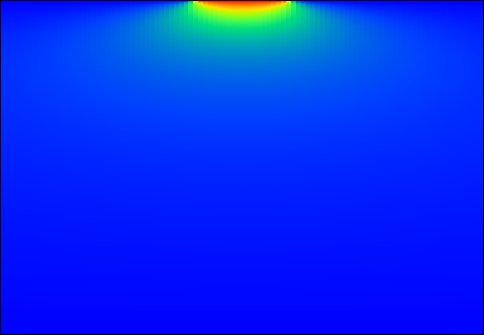
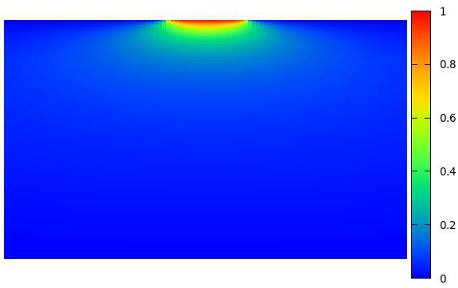
Adding scale on some plots

diff --git a/report/report.tex b/report/report.tex
@@ -11,6 +11,7 @@
 \usepackage{tocloft}
 \usepackage{url}
 \usepackage{tikz}
+\usepackage{pgfplots}
 
 
 
@@ -338,7 +339,7 @@
 
 		\begin{figure}[H]
 			\center
-			\includegraphics[scale=0.5]{images/boundary_conditions/detector/plot_analytic.png}
+			\includegraphics[height=7.5cm,width=11cm]{images/boundary_conditions/detector/plot_analytic.png}
 			\caption{Two dimension plot of analytical solution of the weighting field given by
 				Equation~\ref{exp_analytic}}
 			\label{fig:plot_analytic}
@@ -562,23 +563,23 @@
 		\label{fig:high_refinement}
 	\end{figure}
 
-\begin{figure}[H]
-\begin{center}
-	\begin{tikzpicture}[scale=0.025]
-	    \foreach \i in {\xMin,...,\xMax} {
-	        \draw [very thin,gray] (\i,\yMin) -- (\i,\yMax)  node [below] at (\i,\yMin) {};
-	    }
-	    \foreach \i in {\yMin,...,\yMax} {
-	        \draw [very thin,gray] (\xMin,\i) -- (\xMax,\i) node [left] at (\xMin,\i) {};
-	    }
+	\begin{figure}[H]
+		\begin{center}
+			\begin{tikzpicture}[scale=0.025]
+		    	\foreach \i in {\xMin,...,\xMax} {
+		        	\draw [very thin,gray] (\i,\yMin) -- (\i,\yMax)  node [below] at (\i,\yMin) {};
+		    	}
+		    	\foreach \i in {\yMin,...,\yMax} {
+		        	\draw [very thin,gray] (\xMin,\i) -- (\xMax,\i) node [left] at (\xMin,\i) {};
+		    	}
 
-	\end{tikzpicture}
-\end{center}
-\caption{Grid used by \textit{Weightfield} when computing the potential for
-the following geometry: width 300microm, strip length
-75microm, pitch 300microm, strip number 1. The grid is composed of 112500 cells.}
-\label{fig:wf_mesh}
-\end{figure}
+			\end{tikzpicture}
+		\end{center}
+		\caption{Grid used by \textit{Weightfield} when computing the potential for
+			the following geometry: width 300microm, strip length
+			75microm, pitch 300microm, strip number 1. The grid is composed of 112500 cells.}
+		\label{fig:wf_mesh}
+	\end{figure}
 
 
 	The result of the Laplace equation is of course the potential at each point of
@@ -663,6 +664,7 @@ the following geometry: width 300microm, strip length
 	may be multiplied due to the Townsend avalanche effect following Equation~\ref{eq:townsend}.
 	Notice that this effect happens only for gas detectors.
 
+
 \section{Discussion and applications}
 
 	In this section we will firstly discuss the results given by the program developed
@@ -683,13 +685,36 @@ the following geometry: width 300microm, strip length
 		Figure~\ref{fig:w_semi_free_conditions}).
 
 		\begin{figure}[H]
-			\center
-			\includegraphics[scale=0.4]{images/boundary_conditions/detector/w_semi_free_conditions.png}
+			\begin{minipage}[b]{.60\linewidth}
+				\begin{tikzpicture}
+				    \begin{axis}[
+					    width=10cm,
+					    height=7.5cm,
+				        scale only axis,
+				        enlargelimits=false,
+				        axis on top]
+				        \addplot graphics[xmin=0,xmax=400,ymin=0,ymax=300] {images/boundary_conditions/detector/w_semi_free_conditions.png};
+				    \end{axis}
+				\end{tikzpicture}
+			\end{minipage}
+			\begin{minipage}[b]{.46\linewidth}
+				\center
+				\includegraphics[scale=0.45]{images/boundary_conditions/detector/graduation.png}
+			\end{minipage}
 			\caption{Weighting potential inside a serrated detector given by \textit{Pdetect} with pitch
 					of 400$\mu$m, strip length of 100$\mu$m, detector width of 300$\mu$m, free boundary conditions
 					on the side of the detector.}
 			\label{fig:w_semi_free_conditions}
 		\end{figure}
+
+		%\begin{figure}[H]
+		%	\center
+		%	\includegraphics[scale=0.4]{images/boundary_conditions/detector/w_semi_free_conditions.png}
+		%	\caption{Weighting potential inside a serrated detector given by \textit{Pdetect} with pitch
+		%			of 400$\mu$m, strip length of 100$\mu$m, detector width of 300$\mu$m, free boundary conditions
+		%			on the side of the detector.}
+		%	\label{fig:w_semi_free_conditions}
+		%\end{figure}
 
 		Now that the boundary conditions are the same in the analytical case and for \textit{pdetect},
 		the comparison of the weighting potential should be relevant.
@@ -706,8 +731,8 @@ the following geometry: width 300microm, strip length
 						of 400$\mu$m, strip length of 100$\mu$m, detector width of 300$\mu$m, free boundary conditions
 						on the side of the detector.}
 				\label{fig:semi_free_conditions}
-			\end{minipage} \hfill
-			\begin{minipage}[b]{.46\linewidth}
+				\end{minipage} \hfill
+				\begin{minipage}[b]{.46\linewidth}
 				\center
 				\includegraphics[scale=0.45]{images/boundary_conditions/semi-free_ratio.pdf}
 				\caption{Ratio between the weighting potential along a straight line
@@ -739,7 +764,7 @@ the following geometry: width 300microm, strip length
 
 		\begin{figure}[H]
 			\center
-			\includegraphics[scale=0.45]{images/boundary_conditions/detector/weight_free.png}
+			\includegraphics[width=11cm,height=7.5cm]{images/boundary_conditions/detector/weight_free.png}
 			\caption{Weighting potential inside the detector, given by \textit{Weightfield} with pitch
 				of 400$\mu$m, strip length of 100$\mu$m, detector width of 300$\mu$m.}
 			\label{fig:weight_free}
@@ -752,12 +777,34 @@ the following geometry: width 300microm, strip length
 		of boundary conditions in \textit{Pdetect} (see Figure~\ref{fig:pdetect_free}).
 
 		\begin{figure}[H]
-			\center
-			\includegraphics[scale=0.45]{images/boundary_conditions/detector/w_free_conditions.png}
+			\begin{minipage}[b]{.60\linewidth}
+				\begin{tikzpicture}
+				    \begin{axis}[
+					    width=10cm,
+					    height=7.5cm,
+				        scale only axis,
+				        enlargelimits=false,
+				        axis on top]
+				        \addplot graphics[xmin=0,xmax=400,ymin=0,ymax=300] {images/boundary_conditions/detector/w_free_conditions.png};
+				    \end{axis}
+				\end{tikzpicture}
+			\end{minipage}
+			\begin{minipage}[b]{.46\linewidth}
+				\center
+				\includegraphics[scale=0.45]{images/boundary_conditions/detector/graduation.png}
+			\end{minipage}
 			\caption{Weighting potential inside the detector, given by \textit{Pdetect} with pitch
 				of 400$\mu$m, strip length of 100$\mu$m, detector width of 300$\mu$m.}
 			\label{fig:pdetect_free}
 		\end{figure}
+
+		%\begin{figure}[H]
+		%	\center
+		%	\includegraphics[scale=0.45]{images/boundary_conditions/detector/w_free_conditions.png}
+		%	\caption{Weighting potential inside the detector, given by \textit{Pdetect} with pitch
+		%		of 400$\mu$m, strip length of 100$\mu$m, detector width of 300$\mu$m.}
+		%	\label{fig:pdetect_free}
+		%\end{figure}
 
 		Now we have the same boundary conditions for \textit{Pdetect} and \textit{Weightfield}. We can
 		therefor make a relevant comparison between both. Figure~\ref{fig:weight_pot} and Figure~\ref{fig:free_conditions}
